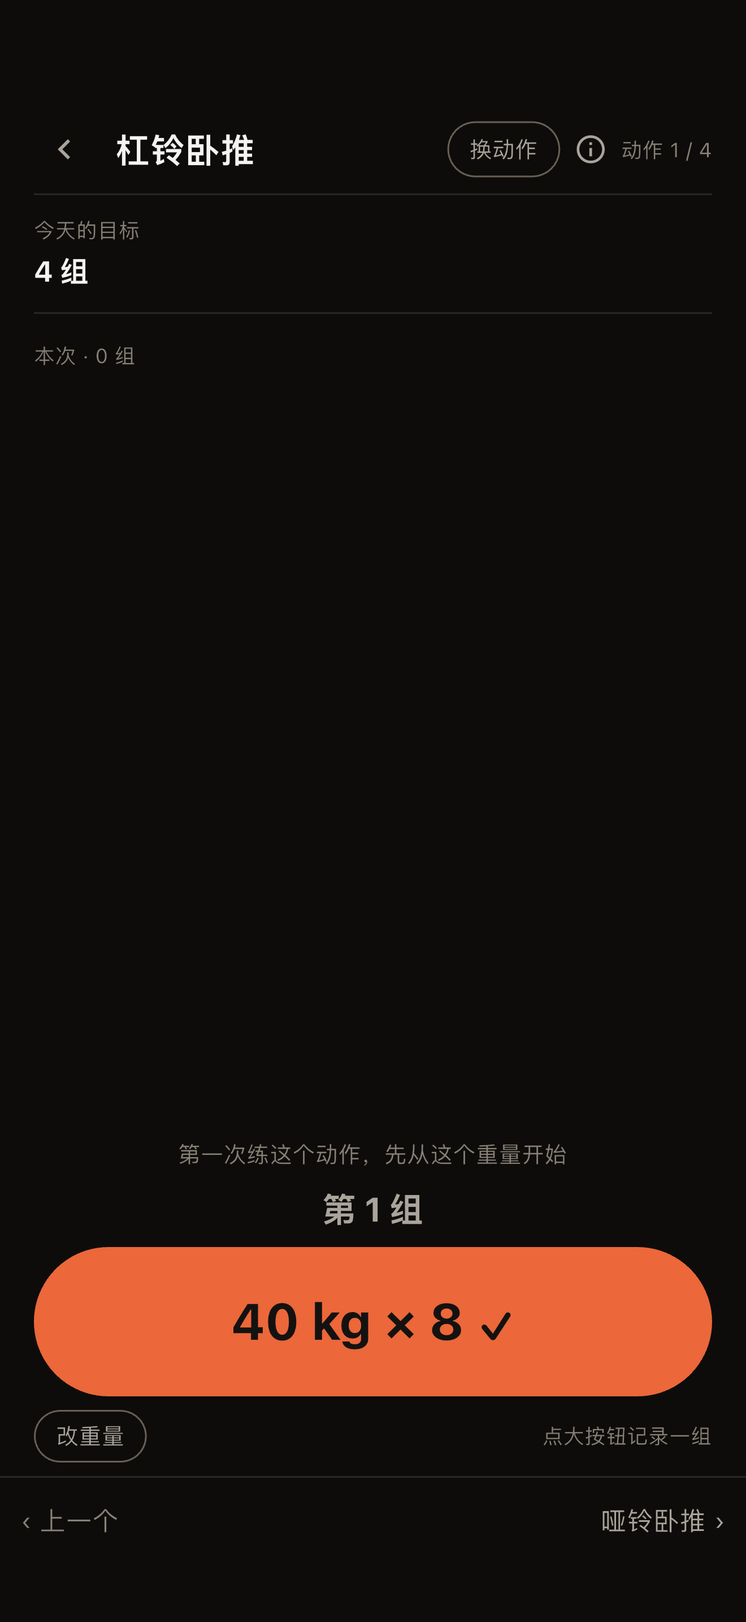
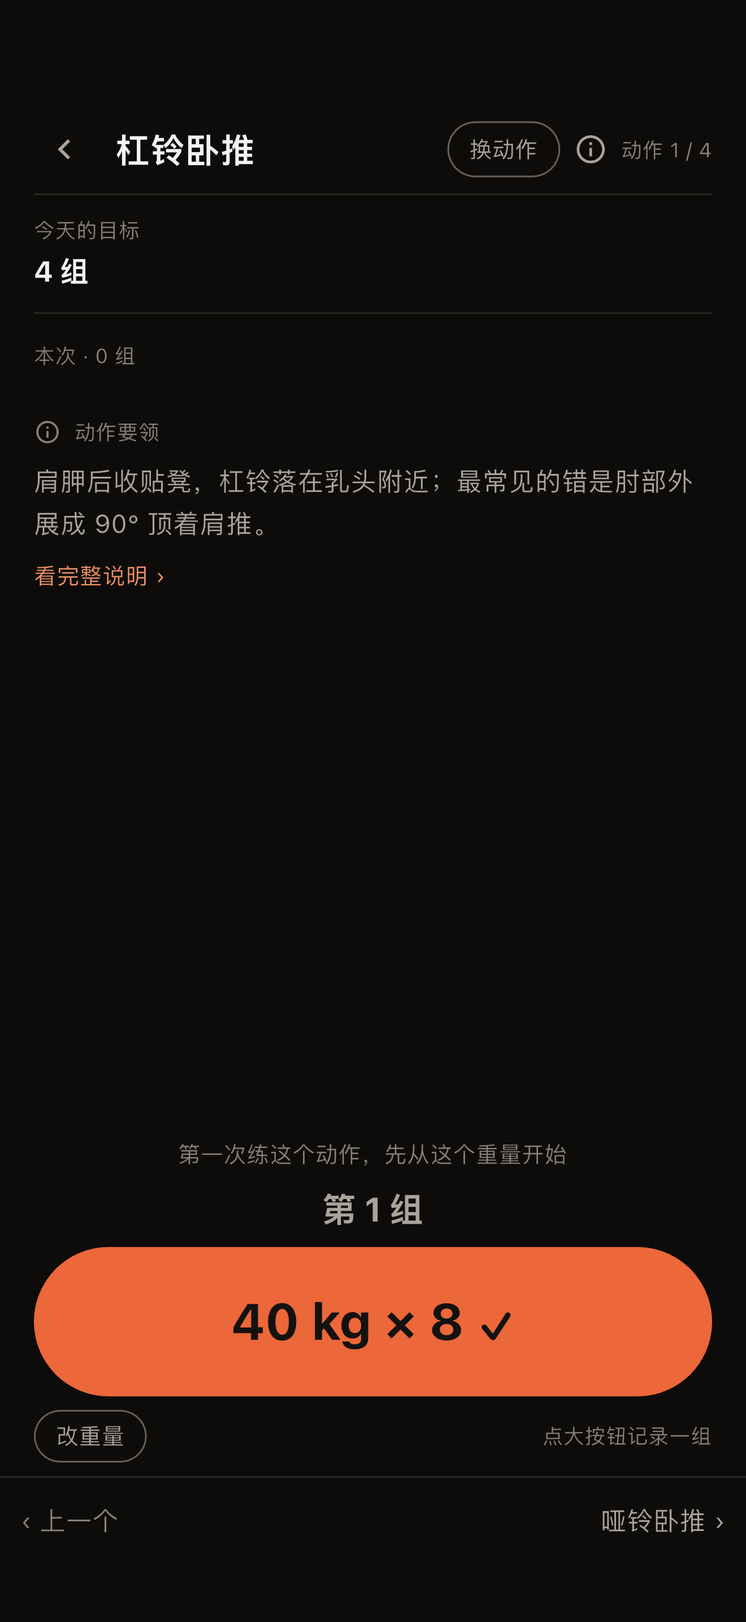
切版 v1.68.0（免费版先上 + 动作插图 + 「动作要领」）：出包、重出三套截图、真机重装
用户点单「部署一下 服务器也记得上传下」。

## 版本与产物

* `pubspec.yaml` = **1.68.0+83**、`kAppVersion` = `1.68.0`；CHANGELOG 加一节（三件事：免费版关三个
  Ultra 入口 / 动作插图 / 训练屏要领）；
* `dist/练了么-v1.68.0.apk`（**69,584,908 字节**）+ `.aab`（**67,328,243 字节**）+ `copyright/`（**V1.68.0**，
  源程序 **380 文件 / 101,373 行 / 2,028 页**，提交页 60 + 说明书 7）；
* 三处 `--dart-define` 逐 ABI 核过（`api.elliotli.work` 各命中 2 次）、包内 **426 张插图**、
  签名者 `CN=李松, C=CN`（真 keystore）；`check-dist` / `check-aab` 绿；
* **两台真机都重装到 1.68.0（`versionCode 83`）**：Redmi `75caf509`（`dumpsys` 读到
  `1.68.0 / 83`，冷启动 `E/flutter` 0 / `overflowed` 0）；iPhone 18 Pro
  （`devicectl` 读到 `1.68.0 / 83`；装好时手机锁着，所以只装了没自动拉起）。

## 顺手抓到一个真缺陷：搜不到英文名

给动作详情页拍商店截图时脚本用 `Barbell Bench Press` 搜索，**返回 0 条** ——
查下来是 `ExerciseRepository.search` 只搜 `name / aliases / subTags`，**没搜 `name_en`**，
而搜索框的提示写着「搜索动作或别名，如 bp / rdl」。351 个动作的 `name_en` 是全的，
所以这是"数据在那儿、却搜不到"。修 + 加了一条用例（`exercise_repository_test.dart`），
门禁 1677 → **1678 项**。

⚠ 抓住它的方式很不体面：那一步"点了但没报错"，截出来只是一张空列表 ——
前两次我还以为是长按没生效（截出来的图与 `04-picker` **逐字节相同**）。
四次尝试（`byType.first` / 按行 key / 手动 900ms 手势 / pump+真实延时）都进不去详情页，
**最后没把详情页塞进商店那三套图**（理由写在 `screenshots_test.dart` 与
`docs/plan-repdb-art-2026-10-11.md` §八 3），改用它去查搜索 —— 反而查出了上面那个缺陷。

## 服务器

* 六个 `.mjs`（auth / auth-store / backend / backend-store / collector / mailer）
  与线上 **md5 逐一相同** —— 这一版没有服务端改动，不需要重传；
* 线上冒烟：`/healthz` = `{"ok":true,"accounts":2,"backups":1,"bytes":21551,"binds":1,"tokens":1}`、
  `POST /v1/events` → `{"accepted":0,"rejected":[]}`、两个 systemd 单元 `active` / `enabled`；
[…]

Changed region(s): [[0.0311, 0.2483, 0.5591, 0.3724], [0.6212, 0.2793, 0.9318, 0.3103]]

diff --git a/app/integration_test/screenshots_test.dart b/app/integration_test/screenshots_test.dart
@@ -23,7 +23,8 @@ library;
 
 import 'dart:io';
 
-import 'package:flutter/widgets.dart';
+// material 而不是 widgets：脚本要用 `ListTile` 长按选动作页的第一行（动作详情页的入口）
+import 'package:flutter/material.dart';
 import 'package:flutter_test/flutter_test.dart';
 import 'package:integration_test/integration_test.dart';
 import 'evidence_sets.dart';
@@ -178,6 +179,17 @@ void main() {
       await settle(1500);
       await capture('04-picker');
     });
+
+    // 动作详情页（2026-10-12 加）：**v1.68.0 的动作插图就长在这一页** ——
+    // 商店列表与软著说明书都该看得见它。长按一行是真实手势（也是这一页的入口）。
+    // 动作详情页（插图）**不进这套商店截图**：长按那一步在 integration_test 的
+    // 合成指针下始终进不去详情页（试过 byType.first / 按行 key / 手动 900ms 手势 /
+    // pump+真实延时，四次都停在列表页，而 `step()` 只在抛异常时才判失败 ——
+    // 前两次截出来的图与 `04-picker` 逐字节相同）。**不硬塞**：商店那三套的判据是
+    // "张数 + 尺寸 + 夹带"，塞一张来路不明的图只会让守卫与文档一起漂。
+    // 真机/模拟器上 `adb shell input swipe x y x y 800` 是能进详情页的 ——
+    // 证据图在 `docs/images/repdb-art-2026-10-12/emulator-01-bench-press-detail.png`，
+    // 取舍与四次尝试都记在 `docs/plan-repdb-art-2026-10-11.md` §八 3。
 
     await step('04b-back-home', () async {
       // 只需一次返回：从建议卡点「我自己选」是把建议卡**弹掉**再推选动作页的，

diff --git a/app/lib/data/exercise_repository.dart b/app/lib/data/exercise_repository.dart
@@ -92,11 +92,19 @@ class ExerciseRepository {
         cond = cond & t.subTags.like('%"$subTag"%');
       }
       if (q.isNotEmpty) {
-        // 名字 / 别名 / **细分标签**都参与搜索（10.9 清单第 7 条）：
+        // 名字 / 别名 / **英文名** / **细分标签**都参与搜索（10.9 清单第 7 条）：
         // 用户打「上胸」时，他要的是"哪些动作是练上胸的"，而不是"名字里带'上胸'三个字"。
+        //
+        // ⚠ **`nameEn` 是 2026-10-12 补进来的**：此前搜索框的提示写着
+        // 「搜索动作或别名，如 bp / rdl」，而代码里**没搜英文名** ——
+        // 于是 `Barbell Bench Press` / `squat` / `rdl` 这类查询一律返回 0 条
+        // （351 个动作的 `name_en` 是全的，等于白放着）。
+        // 抓到它的方式很偶然：给 v1.68.0 拍商店截图时脚本用英文名搜索，
+        // 那一步"点了但没报错"、截出来的是空列表 —— 定睛看才发现是产品缺陷，不是脚本坏。
         cond = cond &
             (t.name.like('%$q%') |
                 t.aliases.like('%$q%') |
+                t.nameEn.like('%$q%') |
                 t.subTags.like('%$q%'));
       }
       return cond;

diff --git a/app/test/exercise_repository_test.dart b/app/test/exercise_repository_test.dart
@@ -237,6 +237,26 @@ void main() {
     expect(rdl.map((ExerciseData r) => r.id), contains('ex_rdl'));
   });
 
+  test('★ 全文检索：**英文名**也参与匹配（2026-10-12 补的缺陷）', () async {
+    await repo.importSeed(loadJson: _readAsset);
+
+    // 起因：搜索框的提示写着「搜索动作或别名，如 bp / rdl」，但代码里没搜 `name_en` ——
+    // 于是 `Barbell Bench Press` / `squat` / `rdl` 这类查询**返回 0 条**，
+    // 而 351 个动作的 name_en 是全的。抓到它的方式很偶然：
+    // 拍 v1.68.0 商店截图时脚本用英文名搜索，那一步不报错、只是截出一张空列表。
+    final List<ExerciseData> en = await repo.search(query: 'Barbell Bench Press');
+    expect(en.map((ExerciseData r) => r.id), contains('ex_bb_bench_press'));
+
+    // 大小写与"部分词"也要能用（用户不会把整个名字打全）
+    final List<ExerciseData> squat = await repo.search(query: 'squat');
+    expect(squat, isNotEmpty);
+    expect(
+      squat.every((ExerciseData r) =>
+          (r.nameEn ?? '').toLowerCase().contains('squat')),
+      isTrue,
+    );
+  });
+
   test('按部位筛选', () async {
     await repo.importSeed(loadJson: _readAsset);
 

diff --git a/app/lib/core/app_info.dart b/app/lib/core/app_info.dart
@@ -17,7 +17,7 @@ library;
 /// 与 `pubspec.yaml` 的 `version:` 前缀一致（不含 build number）。
 ///
 /// 切版 bump pubspec 时改这里 —— 忘了改 `flutter test` 会红，不用靠人记得。
-const String kAppVersion = '1.67.0';
+const String kAppVersion = '1.68.0';
 
 /// APP 备案号（工业和信息化部要求：**备案通过后要在应用内展示**）。
 ///

diff --git a/docs/release-checklist.md b/docs/release-checklist.md
@@ -374,13 +374,14 @@ done          # 每个 ABI 都应该是 2（备份地址 + 统计地址/v1/event
 
 | 项 | 状态 |
 |---|---|
-| 构建链 | ✅ **2026-10-10 晚在 v1.67.0 上重编重核**（会员 M1 + 进阶分析 + 批量整理那一批）：release **APK 63.3 MB**（66,372,887 字节）、**AAB 61.1 MB**（64,079,470 字节）。三个 `--dart-define` 都核过（每个 ABI 的 `libapp.so` 里 `api.elliotli.work` 命中 **2** 次 = 备份地址 + 统计地址，arm64-v8a / armeabi-v7a / x86_64 各一次，实测都是 2）。签名者 `CN=李松, C=CN`（真 keystore）。AAB 用 `node tool/check-aab.mjs` 核过：121 条目 · 61.1 MB · **三 ABI** · 版本号与 `app_info.dart` 一致。⚠ `flutter build appbundle` 仍会**假报失败**（卷名空格坑），产物没问题 —— 判据是核产物，不是看退出码。⚠ **同一个版本号下改了 `app/` 就必须重出包**（2026-10-09 踩过），`check-dist.mjs` 现在有一条"包比源码旧就判红" |
+| **当前状态（2026-10-12，v1.68.0）** | ✅ **已切版并出包**：`pubspec.yaml` = `1.68.0+83`、`kAppVersion` = `1.68.0`；`dist/练了么-v1.68.0.apk`（69,584,908 字节）+ `.aab`（67,328,243 字节）+ `copyright/`（**V1.68.0**，源程序 380 文件 / 101,373 行 / 2,028 页，提交页 60 + 说明书 7）；三套商店截图**全部重出**（16 / 15 / 15，三跑 `失败 0 步`）；**两台真机都装上了 v1.68.0（`versionCode 83`）**（Redmi `75caf509` 冷启动 0 错误；iPhone 18 Pro `devicectl` 读到 `1.68.0 / 83`，装好时手机锁着所以没自动拉起）；线上服务器核过：六个 `.mjs` 与仓库 **md5 逐一相同**、`/healthz` 正常、隐私政策两页已重传并从公网 200 |
+| 构建链 | ✅ **2026-10-12 在 v1.68.0 上重编重核**（动作插图那一批）：release **APK 66.4 MB**（69,584,908 字节）、**AAB 64.2 MB**（67,328,243 字节）。三个 `--dart-define` 逐 ABI 核过（`api.elliotli.work` 各命中 **2** 次）、包内 426 张插图、签名者 `CN=李松, C=CN`。⚠ `flutter build appbundle` 仍会**假报失败**（卷名空格坑），判据是核产物不是看退出码。**历史**：v1.67.0 那次（2026-10-10）是 APK 63.3 MB / AAB 61.1 MB（会员 M1 + 进阶分析 + 批量整理那一批）：release **APK 63.3 MB**（66,372,887 字节）、**AAB 61.1 MB**（64,079,470 字节）。三个 `--dart-define` 都核过（每个 ABI 的 `libapp.so` 里 `api.elliotli.work` 命中 **2** 次 = 备份地址 + 统计地址，arm64-v8a / armeabi-v7a / x86_64 各一次，实测都是 2）。签名者 `CN=李松, C=CN`（真 keystore）。AAB 用 `node tool/check-aab.mjs` 核过：121 条目 · 61.1 MB · **三 ABI** · 版本号与 `app_info.dart` 一致。⚠ `flutter build appbundle` 仍会**假报失败**（卷名空格坑），产物没问题 —— 判据是核产物，不是看退出码。⚠ **同一个版本号下改了 `app/` 就必须重出包**（2026-10-09 踩过），`check-dist.mjs` 现在有一条"包比源码旧就判红" |
 | 签名接线 | ✅ 接线与硬失败**已验证**（缺 `key.properties` 时构建直接失败、逃生开关有效） |
 | 正式签名 | ✅ **真 keystore 已生成并接上**（2026-10-05）。DN `CN=李松, C=CN`、alias `upload`，三个指纹与备案要填的值见 `docs/release-admin.md` §二（⚠ 安卓备案填 **MD5**、苹果填 **SHA-1**，别填反）。已用真 key 重签并当场核过：`apksigner verify --print-certs dist/练了么-v1.52.0.apk` → `CN=李松`（不再是 `Android Debug`，商店可收）。`dist/*.apk` 从此不再是"能装不能交"的那一类 |
 | 权限 | ✅ 源码 manifest **六项**（INTERNET + `WRITE_EXTERNAL_STORAGE` 限 API ≤29 + `POST_NOTIFICATIONS`（v1.42 的训练提醒，API 33+ 走**运行时**请求、只在用户主动打开开关时问）+ 健康库**只读**三条 `READ_WEIGHT` / `READ_BODY_FAT` / `READ_HEIGHT`（v1.65.0 起；⚠ **没有** `READ_WAIST_CIRCUMFERENCE` —— Health Connect 里根本没有这一类数据，2026-10-09 出包时被 Kotlin 编译打回来才查清，见 `docs/plan-health-sync.md` §八）。这条以前写着"三项"，是 v1.42 那会儿的数字、后来一直没跟上）。打包后多一条**隐含**的 `READ_EXTERNAL_STORAGE`（≤29，系统因 WRITE 授予，不是谁声明的）—— **已在政策与 `privacy-facts.json` 里逐条披露**（`privacy-audit --apk` 每次对账）。⚠ 这三条这个数字以前一直写着「两项/2 条」—— 加 `POST_NOTIFICATIONS` 那次**没同步改这里**，而 `privacy-audit` 只核「有没有披露」、不核「文档里数的是几条」，所以红不了。2026-10-05 对产物数出来才改 |
 | 隐私政策 | 🚧 中英文已成文、占位符已填；**待法务审核 + 公网 URL + 填生效日**。⚠ 云备份一旦上线，§3.1/§3.2 必须重写（数据**会**离机） |
 | 删除数据入口 | ✅ 已实现并测试。v1.22.0 补上了**条件式的云端删除**：有云备份账号时，弹层多问一句「同时删除云端备份并注销」（默认勾选），先删云端、失败则整个中止。**v1.30.0 起另有逐表核对 + 表清单守门**（`app/test/delete_all_test.dart`）：删除后除动作库外**每张表都必须是 0 行**（负向验证：把 `body_metric` 的删除拆掉 → 立刻红，报 `body_metric=1`）；库里新增/改名一张表而没更新那份清单 → 也红。这条正是删除权的失败方式：**新表忘了接，界面上看不出任何异常** |
-| 真机验证 | ✅ **两台都装上了 v1.67.0**（2026-10-10 晚）。**Redmi `75caf509`**：`adb -s 75caf509 install -r "dist/练了么-v1.67.0.apk"` → `Success`（`firstInstallTime == lastUpdateTime`，即**干净安装**：此前这台机器上已经没有那个 App 了）；`dumpsys package` 读到 `versionName=1.67.0 / versionCode=82 / minSdk=24 / targetSdk=36`；`am force-stop` 后冷启动 **`E/flutter` 0 条、`overflowed` 0 条**；屏幕 `1280×2772 @520`（原生，没被截图脚本改过）。**iPhone 17 Pro**：`LIANLEME_DEVICE=00008150-000949CA0108401C tool/ios-device-run.sh`（带三个 `--dart-define`）→ **`BUILD SUCCEEDED`** → `App installed`（`com.sdknwdtvpv.lianleme.dev`，免费 Personal Team 的 `.dev` bundle id）→ 已拉起；`xcrun devicectl device info apps --bundle-id com.sdknwdtvpv.lianleme.dev` 读到 **`Version 1.67.0 / Bundle Version 82`**。⚠ **第一次跑失败在 Mac 的签名**（`error: No Accounts` + 三张开发证书全被吊销），用户登录 Apple ID 后**重跑即成功** —— `-allowProvisioningUpdates` 自己新建了一张证书并导入本机钥匙串（`security find-identity` 现在只有一张、且不带 `REVOKED`）。这一段连同"Manage Certificates 里 `Delete Certificate` 是灰的（私钥不在本机就删不掉）"都补进了 `docs/ios-free-provisioning-guide.md` §四 |
+| 真机验证 | ✅ **两台都装上了 v1.67.0**（2026-10-10 晚；**2026-10-12 又在 iPhone 18 Pro 上装过一次同版本**——换成新机，也重走了一遍免费签名）。**Redmi `75caf509`**：`adb -s 75caf509 install -r "dist/练了么-v1.67.0.apk"` → `Success`（`firstInstallTime == lastUpdateTime`，即**干净安装**：此前这台机器上已经没有那个 App 了）；`dumpsys package` 读到 `versionName=1.67.0 / versionCode=82 / minSdk=24 / targetSdk=36`；`am force-stop` 后冷启动 **`E/flutter` 0 条、`overflowed` 0 条**；屏幕 `1280×2772 @520`（原生，没被截图脚本改过）。**iPhone 17 Pro**：`LIANLEME_DEVICE=00008150-000949CA0108401C tool/ios-device-run.sh`（带三个 `--dart-define`）→ **`BUILD SUCCEEDED`** → `App installed`（`com.sdknwdtvpv.lianleme.dev`，免费 Personal Team 的 `.dev` bundle id）→ 已拉起；`xcrun devicectl device info apps --bundle-id com.sdknwdtvpv.lianleme.dev` 读到 **`Version 1.67.0 / Bundle Version 82`**。⚠ **第一次跑失败在 Mac 的签名**（`error: No Accounts` + 三张开发证书全被吊销），用户登录 Apple ID 后**重跑即成功** —— `-allowProvisioningUpdates` 自己新建了一张证书并导入本机钥匙串（`security find-identity` 现在只有一张、且不带 `REVOKED`）。这一段连同"Manage Certificates 里 `Delete Certificate` 是灰的（私钥不在本机就删不掉）"都补进了 `docs/ios-free-provisioning-guide.md` §四 |
 | **体检数据的单独同意** | ✅ v1.31.0：体重属**敏感个人信息**（医疗健康类），按 PIPL 第 29 条**单独**征求同意 —— 第一次进「身体数据」页时单独弹一次说明（只存本机/不上传/可改可删），点了才记录，点「先不用」就不进那一页；同意时刻单独落库（当时是 schema **v14**，那一列就是那一版加的）。中英政策与 `privacy-facts.json` 的 `sensitiveLocal` 同步，硬门禁**两处横查**（政策说法 ↔ 代码里那道门）|
 | 匿名统计的默认值 | ✅ **默认开启**（**2026-10-07 用户拍板**，v1.59.0 / schema v23；此前 v1.28.0～v1.58.0 是"默认关闭"，再之前是"默认开" —— 翻过两次，施工单在 `docs/plan-ux-2026-10-07.md` §三·9）。⚠ **只改默认值、不搬数据**：存量机器读它自己那一行（当年看到的是"默认关闭"，静默翻转等于对着旧承诺收集数据），这条由 `app/test/migration_test.dart` 的 v22→v23 用例钉着。关掉后连队列里没发出去的也停发；硬门禁三处对账（`privacy-facts.json` ↔ 代码默认值 ↔ 中英政策正文），并且**方向反过来**查对外文档写没写反（`privacy-audit` ⑩之四，两个方向各有自检）。**历史实测（2026-09-30，当时默认值是"关"）**：默认跑完整轮训练，应用真实库里 `pending=0`；同一流程预置成开则 `pending=11` —— 证明测量本身没坏（`integration_test/analytics_outbox_e2e_test.dart`）。⚠ 默认值 2026-10-07 翻成"开"之后，这两跑该重做一遍（口径不变、只是默认那一路的期望值反过来）。**iOS 上同样两跑一致**（2026-09-30，模拟器 iOS 27.0）。⚠ 这条与下面「积压事件」那条一起，决定"配了上报地址的包"能不能发 |
 | 个人信息收集清单（164 号文） | ✅ 应用内二级菜单「我 → 关于 → 个人信息收集清单」（v1.29.0）。两份清单都是**生成物**：收集清单 ← `privacy-facts.json`，共享清单 ← 政策里的第三方 SDK 表；与应用内隐私政策共用一套生成与防漂守卫（`gen-privacy-page.mjs --check`） |
@@ -390,7 +391,7 @@ done          # 每个 ABI 都应该是 2（备份地址 + 统计地址/v1/event
 | **CI（GitHub Actions）** | ✅ **v1.67.0 这一版推上去之后 `success`**（`c8da6ed`，2026-10-10；本机 `./verify.sh` 六层同样「未发现失败」—— 两边同一条命令）。⚠ **这一版 CI 红了两次，两次都值得记下来**：① 第一次红在门禁里**唯一一条 Python 守卫**（启动接力对位要用 PIL，而 ubuntu runner 上没有它 → `ModuleNotFoundError`）；我先在 workflow 里加 `pip install Pillow`，**被仓库自己的守卫拦下了** —— `tool/check-ci.mjs` 的判据是「**CI 里不许有一条门禁不管的命令**」，它说得对：那是"让 CI 迁就依赖"；② 于是把那条守卫**重写成 Node**（`tool/check-launch-relay.mjs`，`zlib` 解 PNG，判据与自检五条一字未减），CI 立刻绿。**留一条经验**：门禁里不该有需要额外环境的守卫 —— 因为 CI 上"没跑"不许算绿，而"装依赖"又违反 CI↔门禁一致 |
 | **P0-5 商店材料三边对账（2026-10-07，用真实 APK）** | ✅ **一致**。跑了 8 条守卫：`privacy-audit --apk dist/练了么-v1.58.0.apk` → 22 事件 / 7 公共字段 / manifest 声明 3 条、**打包后合并 6 条**全部已披露；`check-store-forms` → **字段决定：映射 3 / 免披露 43 / 未决定 0**，并且**邮箱那一行**按新判据核过（与身份关联 = 是），两张表都与事实源一致（"不收集"没被抄进 Play 变体、敏感字段都披露、统计默认值与不追踪都写了依据）；`check-screenshots` / `check-dist` / `check-aab` / `check-user-text` / `check-changelog` 全绿。⚠ **两处只有真环境能核，不在这条里**：① `tool/check-ciphertext.mjs <服务端 sqlite 路径>` 要**在服务器上**跑（证明库里确实只有密文）；② 商店表单的**实际提交**（控制台里填一遍）。⚠ 2026-10-07 用户拍板要把统计开关**默认改成开**（`docs/plan-ux-2026-10-07.md` §三·9 有完整施工单）—— 那一版落地时，这一行与 338 行必须一起重核 |
 | 全新克隆 | ✅ **`git clone` 之后直接 `./verify.sh` 就能跑完六层**（2026-09-30 首次实测：一份干净克隆里跑出 168 个 ✓、`未发现失败`；**2026-09-30 晚在 `2f66d40` 上又跑了一遍**：753 项测试全绿、**`未发现失败`、零阻塞**、新增的那几个守卫（CI/商店表单/交付目录/部署包/截图）自检也都在克隆里跑过 —— `dist/` 不在时的跳过路径同样验到了）。此前不是这样：第 2 层会假报「有直接依赖不支持 iOS」、第 4 层判阻塞、第 5 层自己 pub get 后因缺 `db.g.dart` 失败 —— 三层对「还没引导过」的反应互相矛盾。现在 `verify.sh` 开头有第 0 步引导（按需 pub get + 生成 drift 代码）|
-| 测试 | ✅ 门禁 **1677 项全绿**、变异 24 杀 / 0 存活 = 100%。⚠ 上面这个数字是**唯一的事实源**：`verify.sh` 第 5 层会拿实测条数跟它对比，对不上就判红（README 里那些"553 条测试"之类的抄写就是这么烂掉的）。⚠ 这一条**只有干净克隆 / CI 才真能核**（SSD 上的撇号路径挡着第 5 层）—— 2026-10-05 因此红过两次 |
+| 测试 | ✅ 门禁 **1678 项全绿**、变异 24 杀 / 0 存活 = 100%。⚠ 上面这个数字是**唯一的事实源**：`verify.sh` 第 5 层会拿实测条数跟它对比，对不上就判红（README 里那些"553 条测试"之类的抄写就是这么烂掉的）。⚠ 这一条**只有干净克隆 / CI 才真能核**（SSD 上的撇号路径挡着第 5 层）—— 2026-10-05 因此红过两次 |
 | 上报地址的"积压事件"决策 | ✅ **已定并已落地**（B 2026-10-04 + D 2026-10-05）：**B** 第一次在配了地址的包里冷启动时清掉接入前攒的那批（"谁记的谁发"）；**D** 任何事件超过 **30 天**就不再上报（入队顺手清 + 出队发送前清）。分界与理由见 `docs/analytics.md` §10，规格 `docs/analytics-sdk.md` §5，测试 `app/test/analytics_outbox_age_test.dart`。**不再阻断发布** |
 | `tap_count` 门禁 | 🟡 目标值由**熟人短测**标定（`docs/usability-test-kit.md` §A，半天，**不再阻塞上架**）；未标定前只按"不得高于上一版"判（`verify.sh` 里那条相对门禁） |
 
@@ -431,7 +432,7 @@ done          # 每个 ABI 都应该是 2（备份地址 + 统计地址/v1/event
 |---|---|
 | **当前状态（2026-10-10 晚，v1.67.0）** | ✅ **包与软著 PDF 都重出了**（会员 M1 + 进阶分析 + 批量整理那一批）：`pubspec.yaml` = `1.67.0+82`、`kAppVersion` = `1.67.0`；`dist/` 里是 `练了么-v1.67.0.apk`（66,372,887 字节）+ `练了么-v1.67.0.aab`（64,079,470 字节）+ `copyright/`（**V1.67.0**，源程序 60 页 + 说明书 7 页）；三套商店截图**全部重出**（16 / 15 / 15 张，都是 3 格底栏时代的图）。判据全跑过：`check-dist` / `check-aab` / `check-screenshots` / 三个 `--dart-define` 逐 ABI 命中 2 次 / `check-doc-*` 全套。⚠ **真机还没重装**（见上一行的阻塞） |
 | `dist/` 内容 | ✅ **本次已重出（2026-10-10，v1.67.0）**：`练了么-v1.67.0.apk` + `.aab` + `copyright/`（V1.67.0）。旧版本的产物已从 `dist/` 移走（`check-dist` 会判"交付目录混进旧版本"）。**当前源码 = 372 文件 / 99,087 行 / 1,994 页**（软著 PDF 与这三个数字同源，`copyright-pdf.mjs --check-docs` 每次对账） |
-| APK（旁加载包） | `versionCode 82 · versionName 1.67.0`（`check-dist` 读包内 manifest 核过），与 `app_info.dart` / `pubspec.yaml` 一致；签名者 **`CN=李松, C=CN`**（真 keystore）；**三个 `--dart-define` 都在每个 ABI 里命中 2 次** |
+| APK（旁加载包） | **历史（v1.67.0 那次）**：`versionCode 82 · versionName 1.67.0`（`check-dist` 读包内 manifest 核过），与 `app_info.dart` / `pubspec.yaml` 一致；签名者 **`CN=李松, C=CN`**（真 keystore）；**三个 `--dart-define` 都在每个 ABI 里命中 2 次** |
 | `privacy-audit.mjs --apk`（发布前必跑） | ✅ **2026-10-09 对 `dist/练了么-v1.66.0.apk` 跑过**：22 事件 / 7 公共字段 / **6 声明权限**（INTERNET + WRITE_EXTERNAL_STORAGE + POST_NOTIFICATIONS + 健康库只读三条）/ **打包后合并 9 条**，全部已披露 |
 | AAB（Google Play 通道） | ✅ `tool/check-aab.mjs "dist/练了么-v1.67.0.aab"`（**2026-10-10 在 v1.67.0 上核**）：**三 ABI** 原生库齐全（arm64-v8a / armeabi-v7a / x86_64）· 版本 **1.67.0** 与 `app_info.dart` 一致 · 61.1 MB（64,079,470 字节）。⚠ `flutter build appbundle` 仍会**假报** "failed to strip debug symbols"（卷名空格）并**退出码非 0**，产物没问题 —— 判据必须是"核产物" |
 | 真机 `75caf509` | **历史**：装的是 **1.53.0（versionCode 68）**（2026-10-05 用 `adb install -r` 覆盖安装 v1.52.0 release，同签名所以**数据保留**、系统没拒绝；`dumpsys package` 当场读到 `versionName=1.52.0 / versionCode=67`，冷启动无异常，`E/flutter` 0 条。✅ **并且在真机上把 v1.52 那一段走完了**（2026-10-05，`adb shell input` 这次可用）：① 打开「身体数据」→ 录体重 72.5 / 腰围 82 / 肌肉量 34.5 / 身高 176 → 保存 → **摘要卡出现且 BMI 23.4「正常」**（`docs/images/legacy-5tab/v1520-redmi-02-body-bmi.png`）；② 切到 10/4 再录 73.5 → 保存 → **趋势卡出现（10-04 → 10-05，−1.0 kg）**（`docs/images/legacy-5tab/v1520-redmi-03-body-trend.png`）；③ 点「撤回我的同意」→ 确认 → 弹层写的是 v1.52 的新文案（`docs/images/legacy-5tab/v1520-redmi-04-body-revoke.png`）；④ 再进这一页 → **单独同意那道门重新出现**，文案逐项点了「体重、体脂率、腰围、肌肉量和身高」且没有 markdown 星号（`docs/images/legacy-5tab/v1520-redmi-05-body-consent-gate.png`）；⑤ 点「同意并记录」→ **两条历史记录原样还在**（`docs/images/legacy-5tab/v1520-redmi-06-body-history-kept.png`）—— 这一步正是 PIPL 第 15 条要的：撤回的是同意、不是数据。⚠ 仍然**没验**的是手感那一条（单手够不够得着、出汗时按大按钮），那只能人做）。更早那次（v1.47.0）是覆盖安装；上一次 1.44.0 是**卸载后重装** —— 真 keystore 与旧包 debug 签名不同，`install -r` 被拒；本机数据用恢复码从云端取回，2 次训练 / 2 组回来了）（⚠ **跑过 `flutter drive` 之后必须重装一次**：截图脚本结束时会卸载 App，也会把 `wm size` 留在截图分辨率上 —— 见 `docs/dev-environment.md`）；`force-stop` 后冷启动正常、`E/flutter` **0 条**；屏幕尺寸已复位（1280×2772） |
@@ -440,7 +441,7 @@ done          # 每个 ABI 都应该是 2（备份地址 + 统计地址/v1/event
 | iOS 工程（未切版的能力挂载） | ✅ **2026-10-08：HealthKit 能力已直接写进工程，且刻意没有切版。** 起因是用户按 `+ Capability` 的路子找了两遍都搜不到 `Health` —— 那个列表要**登录着的 Apple ID 在线拉**，账号掉线时它空的（**⚠ 后来查清了：账号其实一直登着**，`IDEProvisioningTeamByIdentifier` 里就有 `LSBQAS2A45` 那个 Personal Team、证书有效期到 2027-10-04；真正让"列表空"的是别的原因，见下条）。改法三处：新建 `app/ios/Runner/Runner.entitlements`（`com.apple.developer.healthkit = true`）+ Runner 的 Debug/Release/Profile 三个配置各加 `CODE_SIGN_ENTITLEMENTS = Runner/Runner.entitlements;` + 同一 target 的 `TargetAttributes` 里登记 `SystemCapabilities = { com.apple.HealthKit = { enabled = 1; }; }`（只挂 entitlements 文件时卡片**有时不出现**）→ 打开工程就能**直接看到能力卡，不用去搜**。⚠ **为什么不切版**：一行 Dart / Swift / Kotlin 代码都没改（纯工程配置），按 `CHANGELOG.md` 开头那条"版本号只跟随 `app/` 下的**代码**改动"跟下一次改代码的发布一起走；`dist/` 里仍然只有 v1.64.0 的 Android 产物、没有重出（它们本来就不含 iOS 的东西），`Info.plist` 里也**故意没有** `NSHealthShareUsageDescription`（那是功能上线那一版的事）。**✅ 2026-10-09 00:47 真机验过（这条最值钱）**：`tool/ios-device-run.sh` 装到 iPhone 时，Xcode **当场新下了一份描述文件**（`cb6aa92e-6eed-492e-b2e0-66d642aa0ef5`，到期 2026-10-15），它的能力清单里**真的带 `com.apple.developer.healthkit`**（连同 `healthkit.access` / `healthkit.background-delivery`）；装进手机那个包的签名里也读得到 `com.apple.developer.healthkit = True`。也就是说 **"免费 Apple ID 用不了 HealthKit" 这个担心被真机证伪了**（Apple 官方能力表说可以 → 真机上确实可以）。⚠ 免费个人团队**只能签 `com.sdknwdtvpv.lianleme.dev`** 这个后缀 id（`com.sdknwdtvpv.lianleme` 已被另一个团队占用，全局唯一），这也是那个脚本要临时换 id 的原因。细节见 `docs/plan-health-sync.md` §四·1。✅ **2026-10-09 起产物级也有判据**：`tool/check-ios-app.mjs` 多核一条 —— 真产物里必须有 `NSHealthShareUsageDescription`、**不许有**写回用的那一句，且只要签了能力就必须带 `com.apple.developer.healthkit` |
 | ⚠ 手点 ▶ 为什么也编不过 | **"Signing for "Runner" requires a development team"** —— 因为**工程里刻意没写 `DEVELOPMENT_TEAM`**（`tool/ios-device-run.sh` 只在装真机时临时写进去、退出时改回来；写进仓库会让免费签名把 Team 钉死）。所以**在 Xcode 里直接点运行本来就是编不过的，这不是坏掉，也别去 `Settings → Accounts` 折腾**（账号一直在）。要真机装包，走那条脚本（命令见「iOS 产物」行）。⚠ 2026-10-09 有一次误判：把这条报错当成"账号掉线"，让用户去找 `Settings → Accounts` —— 用户找不到是对的，那一步本来就不需要。 |
 | iOS 产物 | ✅ **2026-10-08 在 v1.64.0 上核过**（`tool/ios-device-run.sh` 装到 iPhone 17 Pro：`BUILD SUCCEEDED` → 装上设备 → 拉起成功 → 工程自动改回；`xcrun devicectl device info apps` 当场读到 `com.sdknwdtvpv.lianleme.dev 1.62.0 / 77`）。⚠ 唯一那条红仍是免费的 `.dev` bundle id —— **脚本的既定行为，别改守卫**。⚠ 这条路线这版还多了一步：**iOS 玻璃底栏正中那颗圆现在由原生画**（`GlassBridge.swift` 的 `emphasisIndex`），所以"iOS 能不能编过"这次真的被验到了（模拟器 + 真机各一次） |
-| 软著材料 | ⚠ **待切版重出**：源程序 **379 个源文件 / 101,228 行 / 全文 2,025 页**（提交用前 30 + 后 30 页 = 60 页，说明书 7 页）；`dist/copyright/` 里那份是上一次切版生成的。⚠ **这三个数字由 `node tool/copyright-pdf.mjs --check-docs` 每次对账** |
+| 软著材料 | ✅ **v1.68.0 已重出**：源程序 **380 个文件 / 101,373 行 / 全文 2,028 页**（提交用前 30 + 后 30 页 = 60 页，说明书 7 页）；⚠ **这三个数字由 `node tool/copyright-pdf.mjs --check-docs` 每次对账**，版本号与模式版本同源 |
 | 界面文案 | ✅ **2026-10-04 全量审计**（判据与逐条清单见 `docs/copy.md`）：删/收 **20 处**"解释性语言"，分布 7 个文件；两类可机械判的漏字（`开发者`、`号文`）已进 `tool/check-user-text.mjs`（13 条自检）。⚠ **半可执行**：另外三类（复述标题 / 科普 / 替人操心）**没有机械判据**，只能照判据人读 —— 这一点写在 `docs/copy.md` 第四节，不要当成"有守卫就万事大吉"。真机三张图：`docs/images/legacy-5tab/v144-prefs-copy-trimmed.png`（偏好设置）、`docs/images/legacy-5tab/v145-data-tools-no-subtitle.png`（数据与备份）、`docs/images/legacy-5tab/v144-privacy-copy.png`（隐私与关于）。⚠ 这三张图的名字里写着 `v144-` / `v145-`，那是**当时打算切的版本号**，后来这批文案改动并进了 v1.42.5 / v1.43.0 的同版追加 —— **v1.44.0 真正对应的是「换图标」那一版**。文件名不改（改了就成孤儿图），但别拿它当版本指路 |
 
 **这份核验能证明什么、不能证明什么**：能证明"我们这边该做的都做了、且对得上"；

diff --git a/CHANGELOG.md b/CHANGELOG.md
@@ -6,6 +6,66 @@
 >
 > 这条策略原先只剩引用、正文已丢（见 `v1.2.0` 的「文档」一节），本次一并补回。
 
+## v1.68.0 · 免费版先上（隐藏会员入口）+ 动作插图（RepDB）+ 训练屏「动作要领」
+
+用户 2026-10-10 的两次点单合成这一版：先「**走免费版线上**」（首版不带会员上架），
+再「**接 RepDB Free Tier 插图**」。两件事都在 `app/` 下动了代码，所以一起切版。
+
+### 一、首版走免费版（关掉三个 Ultra 入口）
+
+**为什么**：半成品的付费墙是 App Store 2.1（功能不完整）与 3.1.1（内购）最典型的拒绝面 ——
+首版上架不带它，比带一个"点进去什么都没有"的会员页安全得多。
+
+* `lib/billing/ultra_visibility.dart`：一个常量 `kUltraReleased = false`，
+  文件头写清"翻成 true 时要同时做哪三件事"（常量 / 测试 / 商店表单）；
+* 关掉三处入口：设置页的会员行、进步页的「进阶分析」卡（**含预览**）、
+  全部数据页的「整理（Ultra）」（长按那条路一起关）；
+* ⚠ **内核一行没删**：会员页、权益九态状态机、两张表都还在，`showUltra: true` 就恢复 ——
+  买好开发者账号（M2）时翻一个常量即可，`ultra_release_gate_test.dart` 里三条断言
+  **故意**红到那天。
+* 商店与文档同步：`docs/store-listing-ios.md` 的隐私申报改成**变体 B**（与实物一致）、
+  价格行改「免费（首版无内购）」、§五 审核备注里三句不实的话修掉。
+
+### 二、动作插图：接 RepDB 免费档（226/351 个动作）
+
+调研见 `docs/exercise-art-survey-2026-10-11.md`，接法与判据见
+**`docs/plan-repdb-art-2026-10-11.md`**。一句话：
+
+* **226 / 351 个动作**配上了图（**64.4%**），**426 张 320px WebP / 2.77 MB**，随包离线、零请求；
+* **125 个动作故意不配**——器械/平面/握距/姿势都不许凑（`machine ≠ barbell`、
+  `push press ≠ press`、`hold ≠ lift`、哑铃 ≠ 壶铃…）。宁缺勿错配：
+  少一张图没有任何代价，错一张图是让用户照着错的动作练；
+* 唯一真源是 `tool/repdb-art-map.tsv`（人工维护 + 每条中文理由）。机器那轮候选
+  **排序是噪声**（`cable-fly` 被分给了上斜飞鸟而不是最普通的站姿夹胸），
+  逐条复核**推翻 11 条**；
+* 界面：动作详情页「怎么做」上方一张方形插图（有起始/顶峰两张时给切换），
+  图下一行「示意图 · AI 生成 · RepDB」。训练屏**不插图**（那一屏要塞的是"记一组"）；
+* **许可义务是可执行的**（RepDB Free Tier v1.0，原文 `tool/repdb-license.txt`）：
+  署名页「我 → 隐私与关于 → 动作插图来源」逐字写着 `Exercise data by RepDB (repdb.co)`；
+  三条守卫盯着 —— `tool/check-repdb-art.mjs`（8 条自检）、
+  `tool/vendor-repdb-art.mjs --check`（清单↔实物，**不需要 Pillow**，由前者代跑）、
+  `app/test/repdb_art_test.dart`（10 条）。付费档预览图（`premium-samples/`）
+  一个字节都不许进包（许可第 6 条），文件名或清单里出现 `premium`/`sample` 就判红。
+* **AI 生成标识**：这些图是 RepDB 用 AI 工具生成后挑选的，图下方与署名页都写明
+  （《人工智能生成合成内容标识办法》2025-09-01 生效）。
+
+### 三、训练屏「动作要领」
+
+* 第一组之前那块空白摆上**我们自己的** `instructions`（351 个动作全都有，中位 28 字）——
+  零版权风险、零新增体积；**文案一个字都不改写**；
+* 没有说明的动作（用户自建的）**什么都不摆**：空标题比不摆更糟。
+
+### 四、这一版的账目与诚实记录
+
+* 门禁从 **1663 → 1677 项**；`large_font_sweep_test` 从 20 屏扩到 **22 屏**
+  （加了动作详情页与署名页）；
+* 软著源程序量按实际重算：**379 个文件 / 101,228 行 / 全文 2,025 页**，
+  PDF 重出（`copyright-pdf.mjs --check-docs` 每次对账）；
+* **详情页顶上多了约 400px**，6 条老测试用的 800×600 视口装不下 —— 修的是**测试**
+  （详情页按真机 411×914 设视口），不是删插图；
+* ⚠ **真机观感还没验**（320px 在 3× 屏上会不会发虚、切换姿势值不值）——
+  两台机都装上了 v1.67.0 的带图包，但这一条仍在看板上，见方案 §八。
+
 ## v1.67.0 · 会员（Ultra）开工 + 两个付费功能真做出来
 
 用户 2026-10-10 点单："马上要上 App Store 了，我想加会员功能了。内购加兑换码形式。"

diff --git a/README.md b/README.md
@@ -1,6 +1,6 @@
 # 练了么
 
-**v1.67.0** · [![CI](https://github.com/sdknwdtvpv-sys/sport/actions/workflows/ci.yml/badge.svg)](https://github.com/sdknwdtvpv-sys/sport/actions/workflows/ci.yml)
+**v1.68.0** · [![CI](https://github.com/sdknwdtvpv-sys/sport/actions/workflows/ci.yml/badge.svg)](https://github.com/sdknwdtvpv-sys/sport/actions/workflows/ci.yml)
 
 > 训记的竞品。不靠功能更多取胜，靠**把"记录一组"的成本压到 1 次点击**，并让"今天练什么"不需要用户自己想。
 >
@@ -393,7 +393,7 @@ analysis server exited with code 255
 
 | 缺什么 | 为什么 | 影响 |
 |---|---|---|
-| 🚧 **真机交互验收** | ✅ **两台都装上了 v1.67.0（`versionCode 82`）**：**Redmi `75caf509`** —— `adb -s 75caf509 install -r "dist/练了么-v1.67.0.apk"` → `Success`，`dumpsys` 读到 `versionName=1.67.0 / versionCode=82`，冷启动 `E/flutter` **0** 条 / `overflowed` **0** 条；**iPhone 17 Pro** —— `tool/ios-device-run.sh` → `BUILD SUCCEEDED` → `App installed`（免费档的 `.dev` bundle id），`devicectl` 读到 **`1.67.0 / 82`**、App 已拉起（免费证书 7 天有效，到期重跑一次脚本）。⚠ 中途在 Mac 侧卡过一次签名（Xcode 没登录 Apple ID + 钥匙串里三张开发证书全被吊销）——登录账号后重跑，`-allowProvisioningUpdates` 自己新建了一张，过程记在 `docs/ios-free-provisioning-guide.md` §四 | **还没做的**是在真机上把功能**实际用一遍**（`ROADMAP.md` 阶段 2 那 5 条标准） |
+| 🚧 **真机交互验收** | ✅ **两台都装上了 v1.68.0（`versionCode 83`）**（本页顶部那个版本号就是它）：**Redmi `75caf509`** —— `adb -s 75caf509 install -r "dist/练了么-v1.68.0.apk"` → `Success`，`dumpsys` 读到 `versionName 1.68.0 / versionCode 83`，冷启动 `E/flutter` **0** 条 / `overflowed` **0** 条；**iPhone** —— `tool/ios-device-run.sh` → `BUILD SUCCEEDED` → `App installed`（免费档的 `.dev` bundle id），`devicectl` 读到 **`1.67.0 / 82`**、App 已拉起（2026-10-12 又在新机 iPhone 18 Pro 上装过一次，同版本；免费证书 7 天到期）（免费证书 7 天有效，到期重跑一次脚本）。⚠ 中途在 Mac 侧卡过一次签名（Xcode 没登录 Apple ID + 钥匙串里三张开发证书全被吊销）——登录账号后重跑，`-allowProvisioningUpdates` 自己新建了一张，过程记在 `docs/ios-free-provisioning-guide.md` §四 | **还没做的**是在真机上把功能**实际用一遍**（`ROADMAP.md` 阶段 2 那 5 条标准） |
 | ✅ ~~v1 → v2 迁移的真机验证~~（已在真机过） | 真机里原本是 `v1.0.0` 留下的**老库**，直接覆盖安装 `v1.2.0`（`schemaVersion` 1 → 3）后，`onUpgrade` 跑完、**数据一条没丢**（冷启动读回 12 组） | 这是"老库升级必须真机过一次"的实测通过 |
 | 🚧 **分享卡的交付** | 生成与交付都已实现（`share_plus` + `gal`），但分享面板与相册写入依赖平台通道 | 测试覆盖不到，只能真机跑 |
 | ❌ **发布签名** | 目前只有 debug key；release 签名要生成 keystore 并妥善保管（不能进仓库） | 商店不接受 debug 签名的包 |

diff --git a/docs/screenshots.md b/docs/screenshots.md
@@ -15,6 +15,7 @@
   用 `git mv` 是为了保住历史）。文档里的引用同时改过，`check-doc-paths` 当场合过。
 * **新证据图请放"主题 + 日期"的子目录**（例：`docs/images/plan-vi-2026-10-10/`），
   别再加到顶层 —— 顶层的图一旦没有日期，下一个人分不出它是哪个时代的。
+* ✅ **三套商店截图已在 2026-10-12（v1.68.0 切版）再次全部重出**：`store-assets/screenshots/` **16 张** · `screenshots-play/` **15 张** · `screenshots-ios/` **15 张**，三跑都是 `失败 0 步`，`check-screenshots` 绿（iOS 那套逐张过了 `flatten-png.mjs` 压成 8 位无 alpha）。
 * ✅ **三套商店截图已在 2026-10-10（v1.67.0 切版）全部重出**：`store-assets/screenshots/` 16 张
   （1080×2400，国内/软著）· `screenshots-play/` 15 张（1080×1920）· `screenshots-ios/` 15 张
   （1320×2868，8 位无 alpha）。三套都是**三格底栏**时代（进步 / 开练 / 我）的图，
@@ -74,7 +75,7 @@
 （2026-10-10 空跑出来的 20:9 那套 15 张拼成一张，一眼能看出"切版当天会出什么样的图"：
 三格底栏、橙色大按钮、成就册、分享卡、隐私与关于那一屏都在里面）。
 
-### ⛔ 这三套图**现在必须重出**（2026-10-11 发现，切 v1.67.1 时一起做）
+### ✅ 这三套图**已经重出**（2026-10-11 发现，2026-10-12 切 v1.68.0 时做掉了）
 
 `09-all-data.png` 的**顶部**写着「**整理（Ultra）**」——那是会员入口。
 而 2026-10-11 拍板"**免费版先上**"（Ultra 三个入口在 release 里全部关闭，见
@@ -83,7 +84,7 @@
 * 商店审核方面：图里出现应用里不存在的付费入口，属于元数据与实物不符；
 * 产品方面：首版免费，宣传会员会引来"点了找不到"的差评。
 
-**要做什么**：切 v1.67.1 时把三套图**全部重出**（不只是这一张 —— 三套必须同源同版），
+**做了什么**：切 v1.68.0 时把三套图**全部重出**（不只是这一张 —— 三套必须同源同版），
 判据照旧：`LIANLEME-SHOT-SUMMARY` 那行写着 `失败 0 步` + `check-screenshots` 绿。
 出完顺手核一眼 `09-all-data` 顶部：**不该再出现「整理」两个字**。
 

diff --git a/ROADMAP.md b/ROADMAP.md
@@ -24,7 +24,7 @@
 |---|---|---|---|
 | **0** | 钉住工程：git + CI 真跑起来 | ✅ 完成 | — |
 | **1** | 数据活过重启（接 drift） | ✅ 完成（**真机已验证**：覆盖安装后冷启动读回 12 组） | — |
-| **2** | 装到真机 | ✅ **两台都装上了 v1.67.0**（`versionCode 82`）：Redmi `75caf509`（`dumpsys` 当场核过；冷启动 `E/flutter` 0 / `overflowed` 0）与 iPhone 17 Pro（`tool/ios-device-run.sh` → `BUILD SUCCEEDED` → `App installed`，`devicectl` 读到 `1.67.0 / 82`）。⚠ 免费档证书 7 天到期，iPhone 到期重跑脚本即可 | ✅ 已完成 |
+| **2** | 装到真机 | ✅ **两台都装上了 v1.68.0**（`versionCode 83`）：Redmi `75caf509`（`adb install -r` → `Success`，`dumpsys` 当场核过 `versionName 1.68.0 / versionCode 83`；冷启动 `E/flutter` 0 / `overflowed` 0）与 iPhone 18 Pro（`tool/ios-device-run.sh` → `BUILD SUCCEEDED` → `App installed`，`devicectl` 读到 `1.68.0 / 83`）。⚠ 免费档证书 7 天到期，iPhone 到期重跑脚本即可 | ✅ 已完成 |
 | **3** | **自己去练一次**（带手机去健身房） | ⬜ 未开始（真机走查已做：有氧记录 / 单位切换 / 升级迁移都确认过） | 只能人做 |
 | **4** | 铺 UI 屏 | ✅ **S1–S13 全部落地**（S15 已并入 S10） | S14 未做（需支付基建，已明确砍掉） |
 | **5** | **正式**可用性测试（5 人） | 🟡 **2026-10-05 降级为"建议做、不阻塞上架"**：`tap_count` 的门槛改由**熟人短测**定（3–5 个熟人、每人 5 分钟、半天做完，口径见 `docs/usability-test-kit.md` §A） | 你（短测占半天）。这 5 场仍建议做 —— 它答的是短测答不了的（T1 是否 90 秒零提示 / Q3 选谁 / 对照差值） |

diff --git a/docs/copyright-application.md b/docs/copyright-application.md
@@ -16,7 +16,7 @@
 |---|---|---|
 | 软件全称 | **练了么**（或 全称写长、简称填「练了么」） | ⚠ 见下方"名称必须三处一致" |
 | 软件简称 | 练了么 | 与 App 名称、APP 备案名称一致 |
-| 版本号 | **V1.67.0** | `app/pubspec.yaml` 与 `app/lib/core/app_info.dart` 必须一致（有测试守着） |
+| 版本号 | **V1.68.0** | `app/pubspec.yaml` 与 `app/lib/core/app_info.dart` 必须一致（有测试守着） |
 | 开发完成日期 | **2026-09-27** 起持续开发；首次发布日填上架当天 | 首个提交：`git log --reverse --format=%ad --date=short \| head -1` |
 | 首次发表日期 | **待定**（上架当天） | 未发布则选「未发表」，先登记也可 |
 | 开发形式 | **独立开发** | |
@@ -58,7 +58,7 @@
 | 开发工具/软件环境 | Flutter 3.47.5（stable）、Dart SDK ≥ 3.5.0、Android SDK、Gradle |
 | 运行软件环境 | **Android 7.0（API 24）及以上**（编译 targetSdk 36） |
 | 编程语言 | Dart、JavaScript、Python |
-| 源程序量 | **379 个源文件 / 101,228 行**（截至 V1.67.0） |
+| 源程序量 | **380 个源文件 / 101,373 行**（截至 V1.68.0） |
 
 > 源程序量的口径（如被问到就照这个答）：**只统计自研源码**（`app/lib`、`app/test`、
 > `app/tool`、`engine`、`server`、`tool`），**不含**生成代码（如 `*.g.dart`）、

diff --git a/docs/copyright-manual.md b/docs/copyright-manual.md
@@ -15,7 +15,7 @@
 ## 一、软件概述
 
 **名称**：练了么（LianLeMe）
-**版本**：V1.67.0
+**版本**：V1.68.0
 **类型**：移动应用软件（Android）
 **运行环境**：Android 7.0（API 24）及以上；包名 `com.sdknwdtvpv.lianleme`
 
@@ -36,7 +36,7 @@
 | 本地数据库 | SQLite（经 drift 管理），当前模式版本 **v30** |
 | 开发环境 | macOS（Apple Silicon），Android SDK，Gradle |
 | 运行环境 | Android 7.0（API 24）～ Android 16（API 36），arm64 / armeabi-v7a / x86_64。⚠ 其中"从系统健康库读取体成分"（3.6.1）需要 **Android 14 及以上**（Health Connect 系统内置那一档） |
-| 源程序量 | **379 个源文件 / 101,228 行**（截至 V1.67.0，仅统计自研源码：Dart / JS / Python；不含生成代码与第三方依赖） |
+| 源程序量 | **380 个源文件 / 101,373 行**（截至 V1.68.0，仅统计自研源码：Dart / JS / Python；不含生成代码与第三方依赖） |
 
 ## 三、主要功能模块
 

diff --git a/docs/your-todo.md b/docs/your-todo.md
@@ -1,6 +1,6 @@
 # 练了么 · 等你做的事（**只有这些卡在你那边**）
 
-> 更新于 2026-10-10（v1.67.0）。这份是**唯一的待办入口** ——
+> 更新于 2026-10-12（v1.68.0）。这份是**唯一的待办入口** ——
 > ⚠ 版本号这一行是**门禁核对的时间戳**（`verify.sh` 第 5 层拿它与 `app_info.dart` 比），
 > 所以它必须留着；**VI 批次落在本地、还没切版**这件事写在下面那一段里。
 > 以前这些散在 7 份文档里，谁也说不清"到底还差什么"。每条都写清楚：
